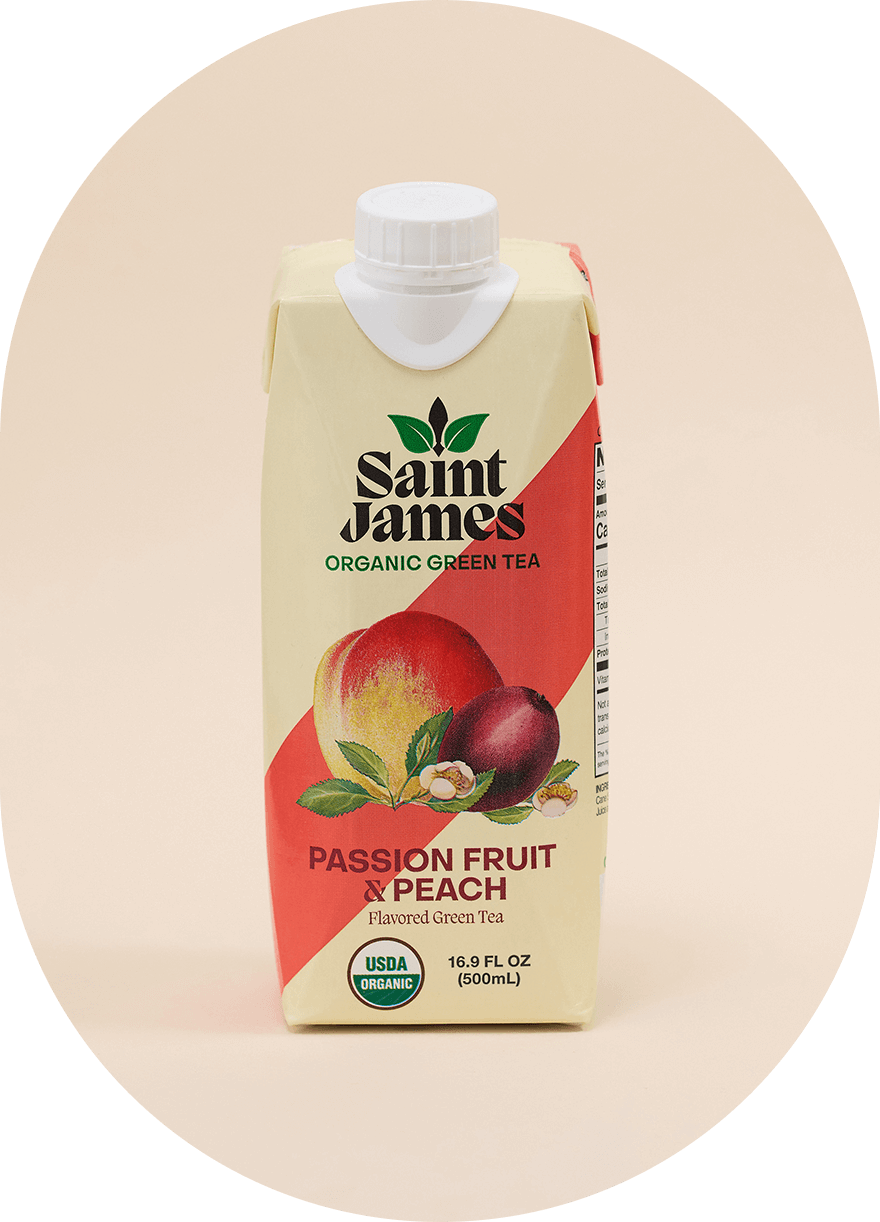
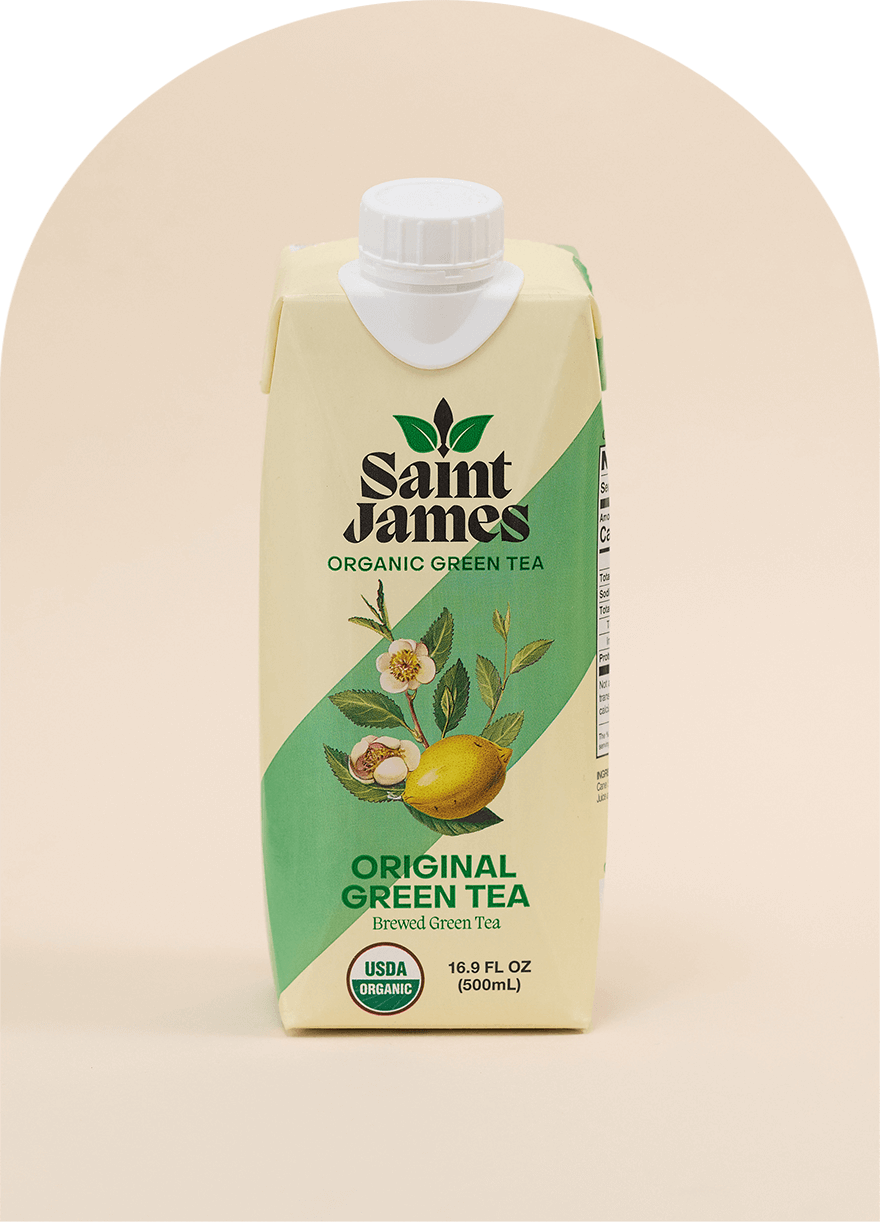
slide

diff --git a/saintjames/js/index.js b/saintjames/js/index.js
@@ -1,0 +1,93 @@
+// header 배경
+// console.log(window);
+window.addEventListener("scroll",()=>{
+    // console.log(scrollY);
+    if(scrollY > 660){
+        document.querySelector("header").style.backgroundColor = "rgba(84,57,57,.25)";
+        document.querySelector("header").style.backdropFilter = "blur(25px)";
+    }else if(scrollY<=660 || scrollY>=4765){
+        document.querySelector("header").style.backgroundColor = "transparent";
+    }
+});
+
+// section1의 mouseover효과
+var circleSize = $(".circle").width()/2;
+$(".section1").on("mousemove", (e) => {    
+    $('.circle').css("top", e.pageY - circleSize);
+    $('.circle').css("left", e.pageX - circleSize);
+    $('.circle').fadeIn();
+});
+$(".section1").on("mouseleave", (e) => {
+  $('.circle').fadeOut();
+});
+
+
+// 슬라이더
+const swiper = new Swiper(".swiper", {
+    direction: "horizontal",
+    speed: 1000,
+    slidesPerView: 1.6,
+    spaceBetween: 280,
+    loop: true,
+  });
+
+
+// 배경 색상, 문구 변경
+
+let changeColor = [
+    "#5d9060",
+    "#d26a51",
+    "#aba35a",
+    "#5661c7",
+    "#b3956d"
+];
+
+let frontFont = [
+    "ORIGINAL GREEN TEA",
+    "PASSIONFRUIT & PEACH TEA",
+    "PINEAPPLE & MANGO TEA",
+    "BLUEBERRY & RASPBERRY TEA",
+    "BLOOD ORANGE & HIBISCUS TEA"
+]
+
+let lastFont = [
+    "A CLEAN TAKE ON A CLASSIC",
+    "SUBTLY SWEET",
+    "PERFECTLY PLAYFUL",
+    "COOL AND REFRESHING",
+    "CRISP AND EASY"
+]
+
+const section1 = document.querySelector(".section1"),
+      article = document.querySelector(".article1"),
+      font = document.querySelector(".item"),
+      front = font.querySelector("h1:first-child"),
+      last = font.querySelector("h1:last-child"),
+      slides = document.querySelector(".swiper-wrapper"),
+      slide = document.querySelectorAll(".swiper-slide"),
+      slideCount = slide.length;
+let index = 1;
+
+section1.addEventListener("click", () => {
+    //배경 변경
+    section1.style.backgroundColor = changeColor[index];
+    //글자 변경
+    front.innerText = frontFont[index];
+    last.innerText = lastFont[index];
+    //슬라이드 이동
+    swiper.slideTo(index);
+    // const realIndex = swiper.realIndex;
+    // console.log(realIndex);
+    console.log(index);
+    index++;
+
+    if(index==5){
+            index=0;
+        };
+    }
+    // if(index==5){
+    //     setTimeout(()=>{
+    //         index=0;
+    //     },500);
+    // }
+);

diff --git a/saintjames/index.html b/saintjames/index.html
@@ -4,17 +4,24 @@
     <meta charset="UTF-8" />
     <meta name="viewport" content="width=device-width, initial-scale=1.0" />
     <title>Saint James</title>
+    <!-- SWIPER 외부 라이브러리 연결-->
+    <link
+      rel="stylesheet"
+      href="https://unpkg.com/swiper@8/swiper-bundle.min.css"
+    />
+    <script src="https://unpkg.com/swiper@8/swiper-bundle.min.js"></script>
+    <!-- jQuery CDN 추가  -->
     <script
       src="https://code.jquery.com/jquery-3.7.0.min.js"
       integrity="sha256-2Pmvv0kuTBOenSvLm6bvfBSSHrUJ+3A7x6P5Ebd07/g="
       crossorigin="anonymous"
     ></script>
-    <script defer src="./index.js"></script>
+    <script defer src="./js/index.js"></script>
     <link rel="shortcut icon" href="./img/logo.png" type="imagxe/-icon" />
     <link rel="stylesheet" href="./css/index.css" />
   </head>
   <body>
-    <header>
+    <!-- <header>
       <div class="header">
         <ul class="menu">
           <li><a href="#" class="font-hover">MENU</a></li>
@@ -25,9 +32,28 @@
         <div><a href="#">Saint James</a></div>
         <a href="#">BUY NOW</a>
       </div>
-    </header>
+    </header> -->
     <main>
       <section class="section1">
+        <article class="article1">
+          <div class="item">
+            <h1>ORIGINAL GREEN TEA</h1>
+            <h1>A CLEAN TAKE ON A CLASSIC</h1>
+          </div>
+          <div class="swiper">
+            <div class="swiper-wrapper">
+              <div class="swiper-slide"><img src="./img/juice1.png" /></div>
+              <div class="swiper-slide"><img src="./img/juice2.png" /></div>
+              <div class="swiper-slide"><img src="./img/juice3.png" /></div>
+              <div class="swiper-slide"><img src="./img/juice4.png" /></div>
+              <div class="swiper-slide"><img src="./img/juice5.png" /></div>
+            </div>
+          </div>
+        </article>
+        <article class="article2">
+          <a href="#">-></a>
+          <a href="#">EXPLORE</a>
+        </article>
         <div class="circle">CLICK</div>
       </section>
       <section class="section2">

diff --git a/saintjames/css/section1.css b/saintjames/css/section1.css
@@ -1,19 +1,21 @@
-
 main > .section1{
-    background-color: #5d9060;
     position: relative;
     width: 100%;
     height: 100vh;
-}
-
-main > .section1 > .circle{
-    /* display: none; */
+    padding: 30px 0px 30px 30px;
+    box-sizing: border-box;
+    background-color: #5d9060;
+    display: flex;
+    flex-direction: column;
+    justify-content: center;
+    z-index: 5;
 }
 
 main > .section1 > .circle{
     position: absolute;
-    top: 0px;
-    left: 46px;
+    z-index: 3;
+    /* top: 0px;
+    left: 46px; */
     width: 100px;
     height: 100px;
     border: 1px dashed white;
@@ -23,4 +25,58 @@ main > .section1 > .circle{
     text-align: center;
     cursor: default;  
     transition: all 0.5s ease-out;
+}
+
+main > .section1 > .article1{
+    position: relative;
+    display: grid;
+    grid-template-columns: repeat(12,1fr);
+}
+
+main > .section1 > .article1 > .item{
+    grid-column: 1/5;
+    display: flex;
+    flex-direction: column;
+}
+
+main > .section1 > .article1 > .item > h1{
+    font-size: 60px;
+    font-family: 'Montserrat', sans-serif;
+    line-height: .8;
+    margin: 0;
+}
+
+main > .section1 > .article1 > .item > h1:first-child{
+    color: white;
+}
+
+main > .section1 > .article1 > .item > h1:last-child{
+    color: #d4ccbd;
+}
+
+main > .section1 > .article1 > .swiper{
+    grid-column: 6/13;
+    display: grid;
+    grid-template-columns: repeat(8,1fr);
+    position: absolute;
+    top: calc(50vh - 430px);
+}
+
+main > .section1 > .article1 > .swiper >.swiper-wrapper{
+    height: 500px;
+    grid-column: 1/9;
+}
+
+main > .section1 > .article1 > .swiper >.swiper-wrapper > .swiper-slide{
+    display: grid;
+    grid-template-columns: repeat(4,1fr);
+}
+
+main > .section1 > .article1 > .swiper >.swiper-wrapper > .swiper-slide > img{
+    grid-column: 1/5;
+}
+
+
+main > .section1 > .article2{
+    display: flex;
 }

diff --git a/test/script.js b/test/script.js
@@ -1,0 +1,24 @@
+var slides = document.querySelector(".slides"),
+    slide = document.querySelectorAll(".slides li"),
+    currentIdx = 0,
+    slideCount = slide.length,
+    slideWidth = 200,
+    slideMargin = 30, 
+    prevBtn = document.querySelector(".prev"),
+    nextBtn = document.querySelector(".next");
+
+makeClone();
+
+function makeClone(){
+    for(var i = 0; i<slideCount; i++){
+        // Node.cloneNode(): 이 메서드를 호출한 Node의 복제된 Node를 반환한다.
+        var cloneSlide = slide[i].cloneNode(true);
+        cloneSlide.classList.add("clone");
+        slides.append(cloneSlide);
+    }
+    for(var i = slideCount-1; i>=0; i--){
+        var cloneSlide = slide[i].cloneNode(true);
+        cloneSlide.classList.add("clone");
+        slides.prepend(cloneSlide);
+    }
+}

diff --git a/test/index.html b/test/index.html
@@ -1,0 +1,27 @@
+<!DOCTYPE html>
+<html lang="en">
+  <head>
+    <meta charset="UTF-8" />
+    <title>BASE - multiple slide loop</title>
+    <link rel="stylesheet" href="./style.css" />
+  </head>
+
+  <body>
+    <!-- partial:index.partial.html -->
+    <div class="slide_wrapper">
+      <ul class="slides">
+        <li>slide 01</li>
+        <li>slide 02</li>
+        <li>slide 03</li>
+        <li>slide 04</li>
+        <li>slide 05</li>
+      </ul>
+    </div>
+    <p class="controls">
+      <span class="prev">prev</span>
+      <span class="next">next</span>
+    </p>
+    <!-- partial -->
+    <script src="./script.js"></script>
+  </body>
+</html>

diff --git a/test/style.css b/test/style.css
@@ -1,0 +1,37 @@
+*{margin:0; padding:0;}
+li{list-style:none;}
+
+.slide_wrapper{
+	position: relative;
+	width: 660px;
+	margin: 0 auto;
+	height: 200px;
+	overflow:hidden;
+}
+.slides{
+	position: absolute;
+	left:0; top:0;	
+}
+.slides.animated{
+	transition: 0.5s ease-out;
+}
+.slides li{
+	width: 200px;
+	height: 200px;
+	background:#ccc;
+	float:left;
+}
+.slides li:not(:last-child){	
+	margin-right: 30px;
+}
+.controls{
+	text-align: center;
+	margin-top: 50px;
+}
+
+.controls span{
+	background:#333;
+	color: #fff;
+	padding:10px 20px;
+	margin:0 10px;
+}

diff --git a/saintjames/css/header.css b/saintjames/css/header.css
@@ -5,7 +5,7 @@ header{
     align-items: center;
     width:100%;
     height: 80px;
-    z-index:1;
+    z-index:2;
     /* background-color: rgba(84,57,57,.25);
     backdrop-filter: blur(25px); */
 }

diff --git a/saintjames/css/section3.css b/saintjames/css/section3.css
@@ -43,7 +43,7 @@ main > .section3 > .article2{
     row-gap: 40px;
     column-gap: 30px;
     padding-top: 50px;
-}
+} 
 
 main > .section3 > .article2 > .item{
     position: relative;
